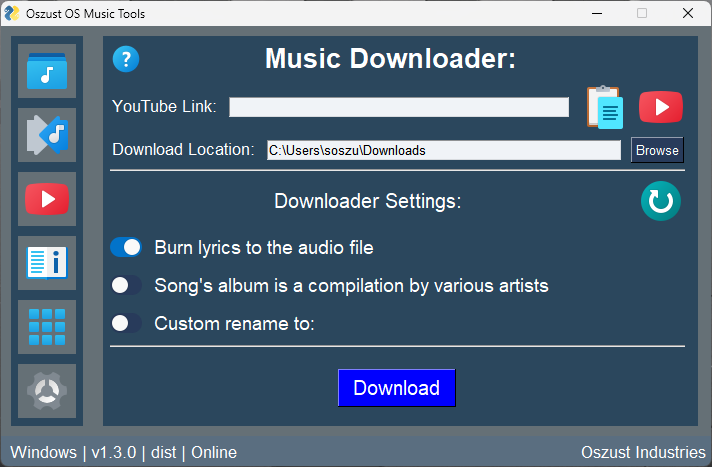
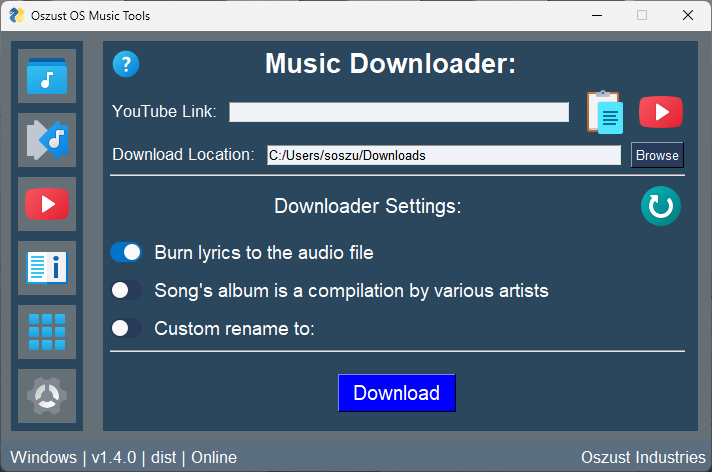
v1.4.0 Beta

diff --git a/Oszust_OS_Music_Tools.py b/Oszust_OS_Music_Tools.py
@@ -1,6 +1,6 @@
 ## Oszust OS Music Tools - Oszust Industries
-## Created on: 1-02-23 - Last update: 6-23-24
-softwareVersion = "v1.4.0 BETA"
+## Created on: 1-02-23 - Last update: 6-25-24
+softwareVersion = "v1.4.0 Beta"
 systemName, systemBuild = "Oszust OS Music Tools", "dev"
 import AutoUpdater
 try:
@@ -200,8 +200,16 @@ def checkAutoUpdater(command):
         except: newestVersion = "Failed"
         if newestVersion != softwareVersion and newestVersion != "Failed":
             if not pyuac.isUserAdmin():
-                response = popupMessage("New Update Available", "A new version " + newestVersion + " is now available for " + systemName + ". Would you like to update now?", "downloaded")
-                if response == True:
+                try: releaseInfo = json.loads(urllib.request.urlopen(f"https://api.github.com/repos/Oszust-Industries/" + systemName.replace(" ", "-") + "/releases?per_page=1").read().decode()) ## Changelog File
+                except: releaseInfo = "Failed"
+                if "[AutoUpdater Code 0]" in releaseInfo: response = popupMessage("New Update Available", "A new version " + newestVersion + " is now available for " + systemName + ". AutoUpdater will not work for this update, so you must install it manually. Would you like to open the downloads page?", "downloaded")
+                else: response = popupMessage("New Update Available", "A new version " + newestVersion + " is now available for " + systemName + ". Would you like to update now?", "downloaded")
+                if response == True and "[AutoUpdater Code 0]" in releaseInfo: ## AutoUpdater is Blacklisted
+                    webbrowser.open("https://github.com/Oszust-Industries/" + systemName.replace(" ", "-") + "/releases/latest", new=2, autoraise=True)
+                    thisSystem = psutil.Process(os.getpid()) ## Close Program
+                    thisSystem.terminate()
+                    return 
+                elif response == True: 
                     try:
                         try:
                             os.remove(os.path.join(os.getenv('APPDATA'), "Oszust Industries", "Oszust OS Music Tools", "Cache", "AutoUpdater Date.txt"))

diff --git a/AutoUpdater.py b/AutoUpdater.py
@@ -1,5 +1,5 @@
-## Oszust OS AutoUpdater - v4.1.0 (5.15.24) - Oszust Industries
-import os, pathlib, requests, shutil, subprocess, threading, urllib.request, webbrowser, zipfile
+## Oszust OS AutoUpdater - v4.2.0 (6.25.24) - Oszust Industries
+import json, os, pathlib, requests, shutil, subprocess, threading, urllib.request, webbrowser, zipfile
 import PySimpleGUI as sg
 
 def setupUpdate(systemName, systemBuild, softwareVersion, newestVersion):
@@ -65,6 +65,11 @@ def OszustOSAutoUpdater(systemName, systemBuild, softwareVersion, newestVersion)
             loadingStatus = "Error-Bad API call was made to GitHub's releases." ## Bad API Call
             return
         if newestVersion != softwareVersion:
+            try: releaseInfo = json.loads(urllib.request.urlopen(f"https://api.github.com/repos/Oszust-Industries/" + systemName.replace(" ", "-") + "/releases?per_page=1").read().decode()) ## Changelog File
+            except: releaseInfo = "Failed"
+            if "[AutoUpdater Code 0]" in releaseInfo: ## AutoUpdater is Blacklisted
+                loadingStatus = "AutoUpdater can't install the files properly. User must install them manually."
+                return
         ## Create Temp Folder for Update in Appdata
             loadingStatus, loadingStep = "Creating Temp Folder...", 3    
             if os.path.exists(tempDownloadFolder) == False: os.mkdir(tempDownloadFolder)
